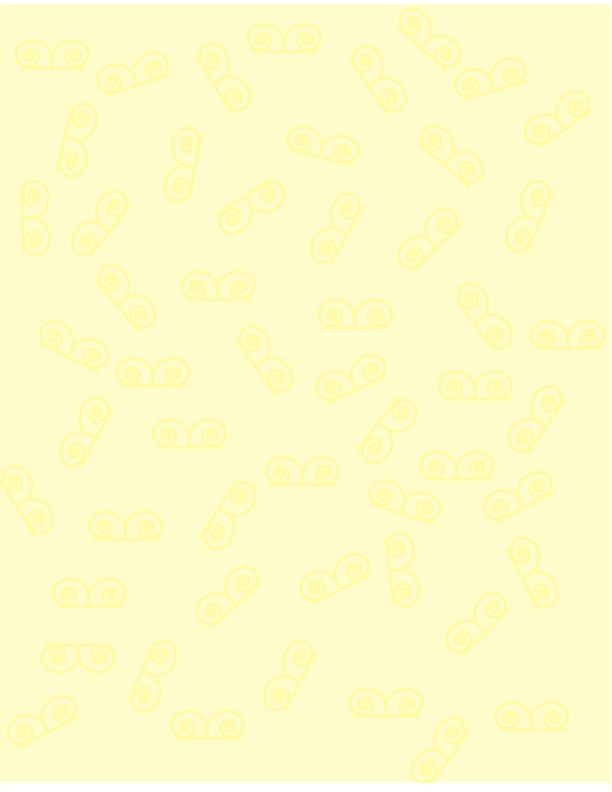
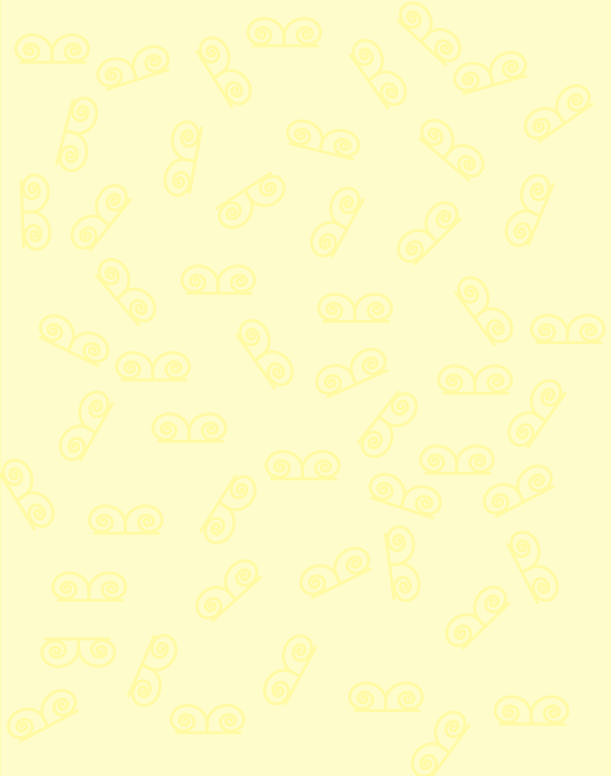
Updates

diff --git a/src/css/LeftBar.css b/src/css/LeftBar.css
@@ -1,7 +1,7 @@
 .LeftSideBar {
     background-image: url("../images/leftsidebar_backgroundribbon.png");
     background-blend-mode: normal;
-    min-height: 3256px;
+    min-height: 3020px;
 }
 
 .sidebar-text-block {

diff --git a/src/css/RightBar.css b/src/css/RightBar.css
@@ -1,7 +1,7 @@
 .RightSideBar {
     background-image: url("../images/rightsidebar_backgroundribbon.png");
     background-blend-mode: normal;
-    min-height: 3256px;
+    min-height: 3020px;
 }
 
 .sideBar {
